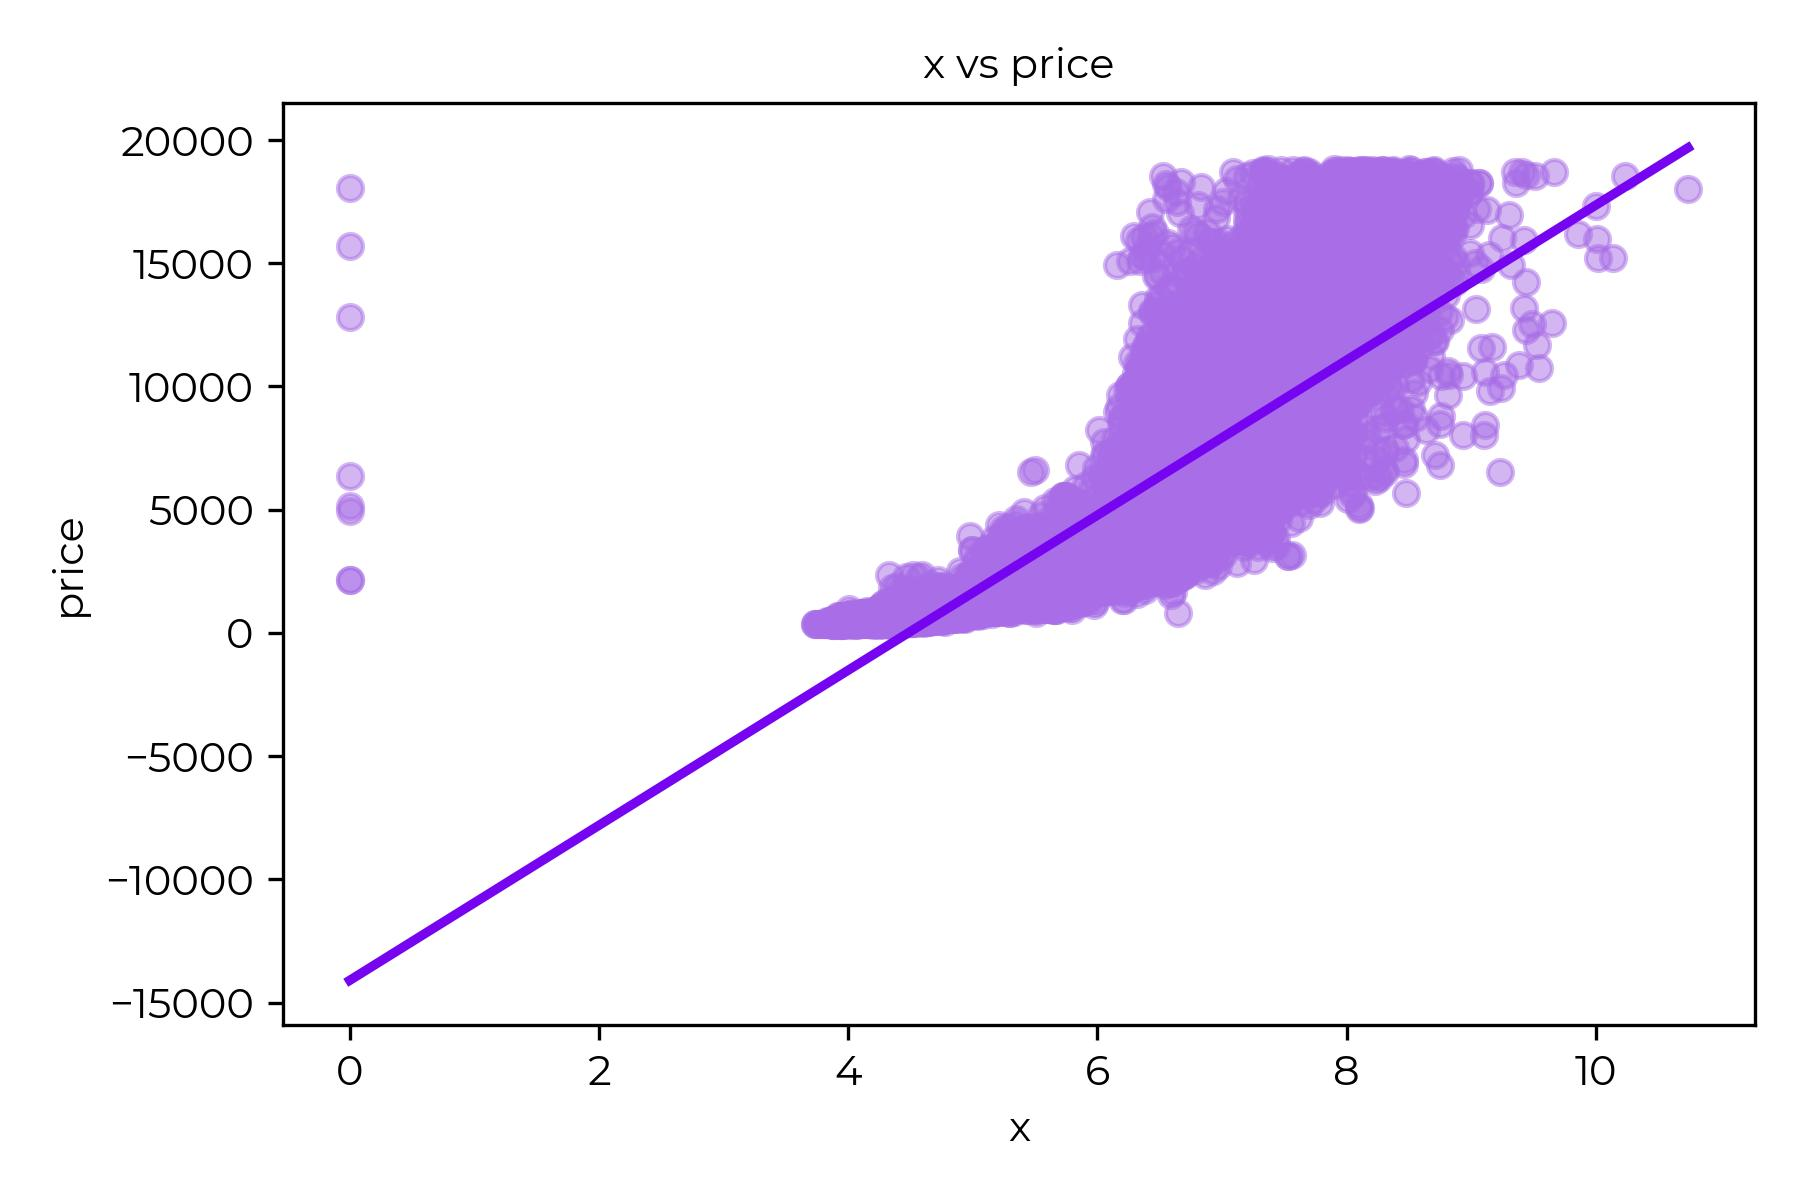
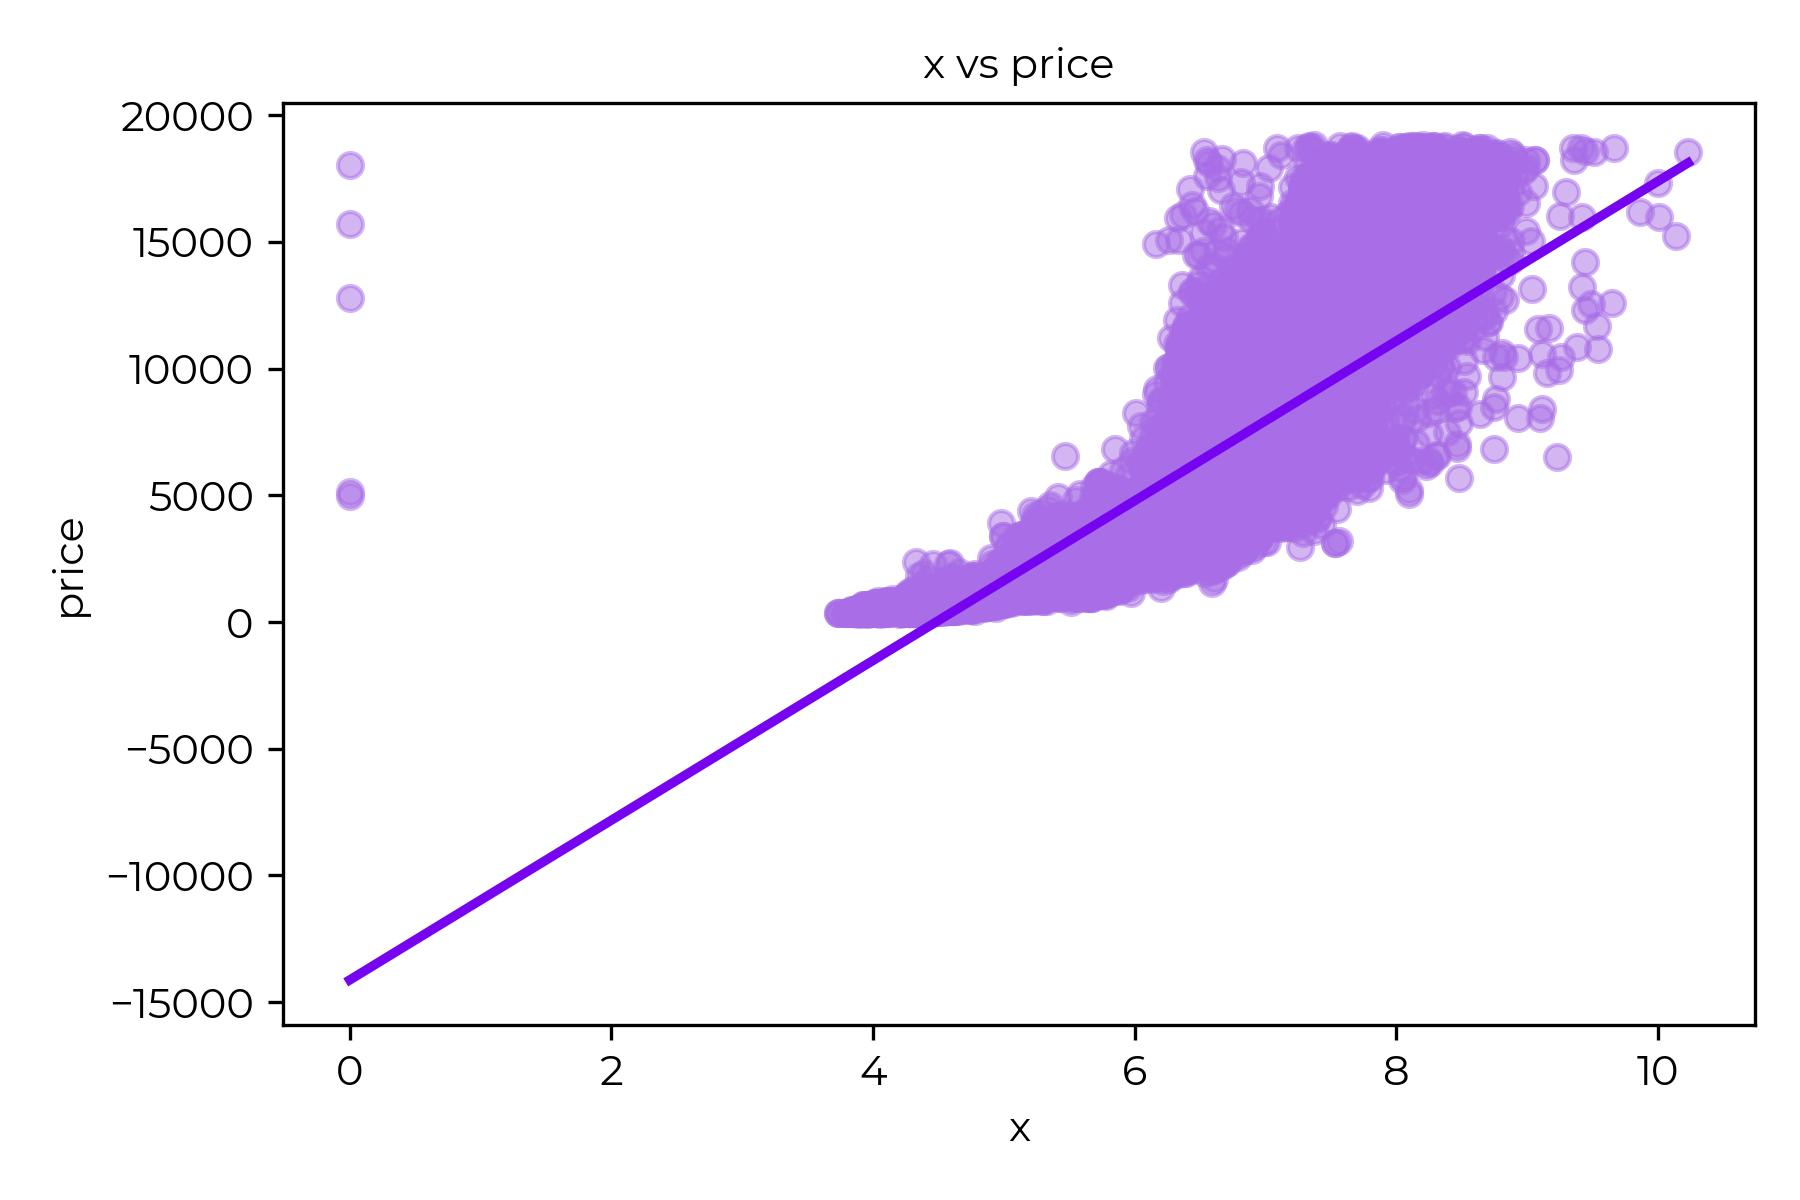
assumptions debug

diff --git a/server/app/utils.py b/server/app/utils.py
@@ -109,30 +109,32 @@ def treat_outliers(df, method, features,model=None):
 def get_correlation_matrix(df,target,feature):
     return df[target,*feature].corr()
 #diagnose
-def get_correlation_feature(df,target,feature):
-    res={}
+def get_correlation_feature(df, target, feature):
+    res = {}
     for feat in feature:
-        corr_value=df[feat].corr(df[target])
-        res[feat]=corr_value
+        try:
+            if df[feat].dtype.kind in 'bifc' and df[feat].std() != 0 and df[target].std() != 0:
+                corr_value = df[feat].corr(df[target])
+                res[feat] = corr_value if not np.isnan(corr_value) else 0
+            else:
+                res[feat] = 0
+        except Exception as e:
+            print(f"Error processing {feat}: {e}")
+            res[feat] = 0
     return res
 #assumption-1 Linearity of feature-target relationship
-def linearity_test(df,target,feature):
-    failed=[]
+def linearity_test(df, target, feature):
+    failed = []
     print("Success")
-    res=get_correlation_feature(df,target,feature)
+    res = get_correlation_feature(df, target, feature)
     print(res)
-    for key,value in res.items():
+    for key, value in res.items():
         if abs(value) < 0.1:
             failed.append(key)
-    if not failed :
-        return {
-            'result':'success'
-            }
+    if not failed:
+        return {'result': 'success'}
     else:
-        return {
-            'result':'failure',
-            'features':failed
-            }
+        return {'result': 'failure', 'features': failed}
     
 #assumption-2 Independence of errors
 def independence_of_errors_test(model):
@@ -334,7 +336,6 @@ def visualize_linearity(uid, df, target, features):
     base_dir = os.path.abspath(os.path.dirname(__file__))
     font_path = os.path.join(base_dir, 'static', 'fonts', 'Montserrat-Regular.ttf')
     font_prop = font_manager.FontProperties(fname=font_path)
-
 
     for feature in features:
         plt.figure(figsize=(6, 4))

diff --git a/server/app/routes.py b/server/app/routes.py
@@ -251,9 +251,11 @@ def api_assumptions():
 
         # #assumption 1
         print(target)
-        test_result_1=utils.linearity_test(df,list(model.X_train.columns),target)
-        
-        utils.visualize_linearity(uid, df, list(model.X_train.columns), target)
+        encoded_df=utils.concatenate_df(model.y_train,model.X_train)
+        print(encoded_df)
+        test_result_1=utils.linearity_test(encoded_df,target,list(model.X_train.columns))
+        print(test_result_1)
+        utils.visualize_linearity(uid, encoded_df, target,list(model.X_train.columns))
         print("Running linearity_test...")
 
         #assumption 2
